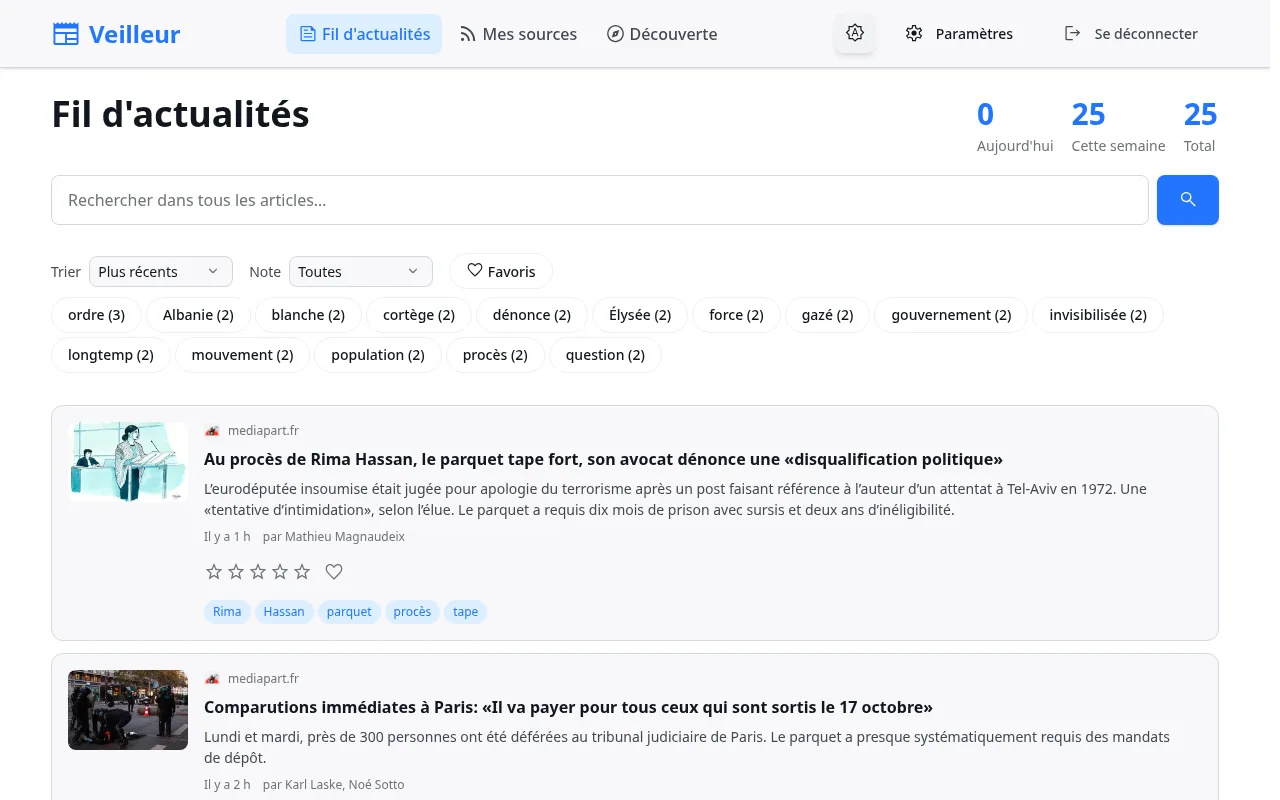
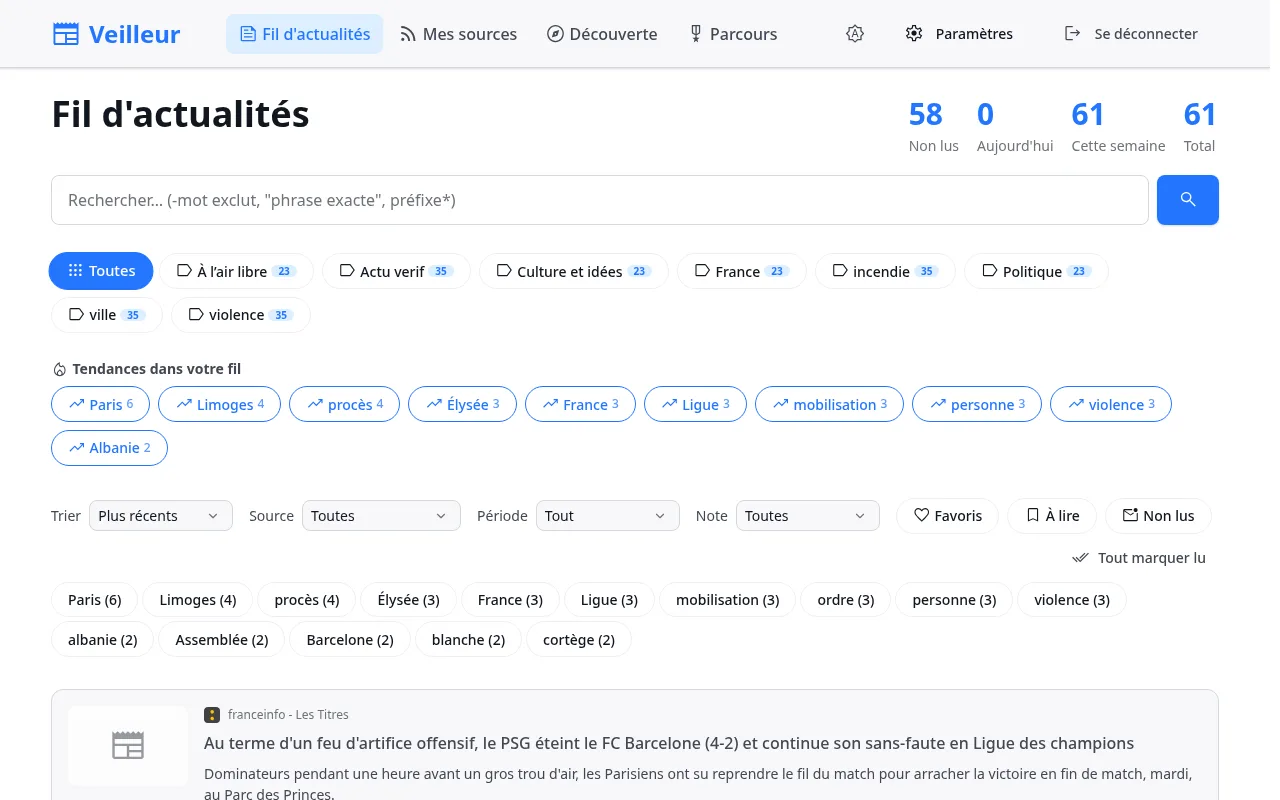
Veilleur 0.17 : communauté, parcours, notifications, PWA — capture et descriptions à jour

diff --git a/index.html b/index.html
@@ -1081,15 +1081,17 @@
           </div>
           <span class="fc-lang lang-ts"><span class="lang-dot"></span> TypeScript</span>
         </div>
-        <img class="fc-shot" src="shots/veilleur.webp" alt="Veilleur — fil d'actualités habillé par Lunar Aurora : mots-clés automatiques, notes, favoris, tri et recherche" loading="lazy">
+        <img class="fc-shot" src="shots/veilleur.webp" alt="Veilleur — fil d'actualités habillé par Lunar Aurora : rubriques, tendances, mots-clés, filtres, notes et favoris" loading="lazy">
         <div class="fc-title">veilleur</div>
-        <div class="fc-desc">Agr&eacute;gateur d'actualit&eacute;s libre, ta sentinelle de l'information : colle l'adresse d'un site et le flux est trouv&eacute; tout seul. Un seul fil sans algorithme, class&eacute; tout seul par cinq mots-cl&eacute;s extraits de chaque article, que tu notes &eacute;toile par &eacute;toile, mets en favori, tries et fouilles en plein texte, le tout en d&eacute;filement infini. D&eacute;couverte communautaire, cache local des images et des favicons (ton navigateur ne parle jamais aux sites sources), th&egrave;me clair ou sombre en un clic. Fastify 5, MariaDB, Redis/BullMQ, Web Components sans framework habill&eacute;s par Lunar Aurora et les ic&ocirc;nes Material. En ligne sur news.nethttp.net.</div>
+        <div class="fc-desc">Agr&eacute;gateur d'actualit&eacute;s libre, ta sentinelle de l'information : colle l'adresse d'un site et le flux est trouv&eacute; tout seul. Un seul fil sans algorithme, rang&eacute; par rubriques, class&eacute; par mots-cl&eacute;s extraits de chaque article et par tendances du moment ; tu notes, mets en favori, gardes &laquo; &agrave; lire &raquo;, lis en place sans quitter le fil, puis tu exportes tout. C&ocirc;t&eacute; communaut&eacute; : sources sugg&eacute;r&eacute;es, articles pl&eacute;biscit&eacute;s, classement sous pseudo avec niveaux, badges et s&eacute;rie de lecture. Notifications push, r&eacute;sum&eacute; courriel du matin, et &ccedil;a s'installe comme une appli, consultable hors ligne. 📰🔔🏅</div>
         <div class="fc-tags">
           <span class="fc-tag">RSS</span>
           <span class="fc-tag">Fastify</span>
           <span class="fc-tag">BullMQ</span>
           <span class="fc-tag">Web Components</span>
           <span class="fc-tag">Lunar Aurora</span>
+          <span class="fc-tag">PWA</span>
+          <span class="fc-tag">Web Push</span>
         </div>
         <div class="fc-bottom">
           <span class="fc-link">Veiller maintenant <svg width="14" height="14" viewBox="0 0 24 24" fill="none" stroke="currentColor" stroke-width="2"><line x1="5" y1="12" x2="19" y2="12"/><polyline points="12 5 19 12 12 19"/></svg></span>
@@ -1317,7 +1319,7 @@
           <span class="pc-name">veilleur</span>
           <span class="pc-lang lang-ts"><span class="lang-dot"></span> TypeScript</span>
         </div>
-        <div class="pc-desc">Agr&eacute;gateur d'actualit&eacute;s libre : flux, favicon et tags des sources r&eacute;cup&eacute;r&eacute;s automatiquement, mots-cl&eacute;s extraits, articles not&eacute;s, favoris, tri et recherche, favicons et images en cache local, interface Lunar Aurora clair/sombre &mdash; en ligne sur news.nethttp.net.</div>
+        <div class="pc-desc">Agr&eacute;gateur d'actualit&eacute;s libre : flux d&eacute;tect&eacute;s automatiquement, mots-cl&eacute;s et tendances, rubriques, lecture en place, lu/non lu, liste de lecture et exports, communaut&eacute; (suggestions, articles pl&eacute;biscit&eacute;s, classement, badges), notifications push + r&eacute;sum&eacute; courriel, PWA hors ligne. Interface Lunar Aurora clair/sombre.</div>
       </a>
 
       <a href="https://yrbane.github.io/debian13-admin/" class="project-card">
@@ -1387,7 +1389,7 @@
       </a>
       <a class="demo-tile" href="https://news.nethttp.net">
         <img src="shots/veilleur.webp" alt="veilleur" loading="lazy">
-        <span>veilleur &mdash; tes sources d'actu, un seul fil, z&eacute;ro algorithme, tes &eacute;toiles et tes favoris 📰⭐</span>
+        <span>veilleur &mdash; tes sources d'actu, un seul fil, z&eacute;ro algorithme, badges, notifs et appli installable 📰🔔🏅</span>
       </a>
       <a class="demo-tile" href="https://yrbane.github.io/okulist/">
         <img src="shots/okulist.webp" alt="okulist" loading="lazy">
